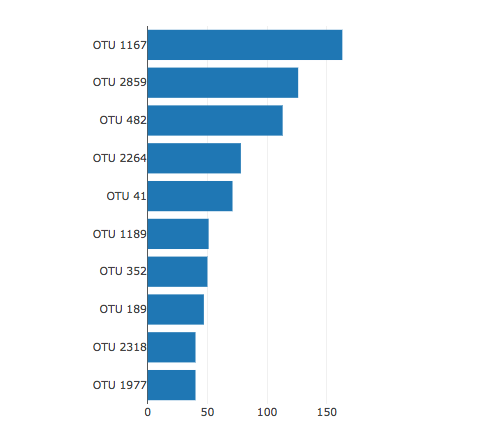
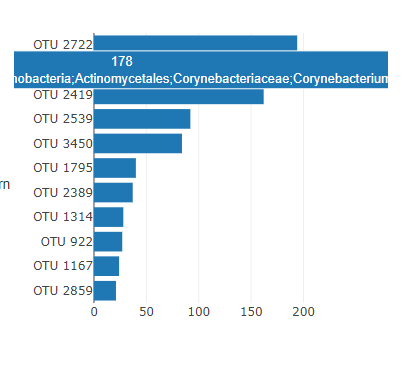
Completed First Version of Readme.md

diff --git a/static/js/app.js b/static/js/app.js
@@ -308,7 +308,7 @@ function init(data) {
 
 console.log(window.location.pathname);
 var allSampleData; 
-d3.json("http://localhost:8000/samples.json").then( function(data) {
+d3.json("http://localhost:8000/data/samples.json").then( function(data) {
     init(data);
     allSampleData = data;
 });

diff --git a/README.md b/README.md
@@ -8,67 +8,43 @@ The dataset reveals that a small handful of microbial species (also called opera
 
 ## Step 1: Plotly
 
-1. Use the D3 library to read in `samples.json`.
+1. The D3 Library was used to read in the [`samples.json`](./data/samples.json) file.
 
-2. Create a horizontal bar chart with a dropdown menu to display the top 10 OTUs found in that individual.
+2. The first chart is a horizontal bar chart to display the top 10 OTUs found for a particular individual.  The individual's identifier can be selected from a drop down list.
 
-* Use `sample_values` as the values for the bar chart.
+![dropdown_List](Images/dropdown1.png)   ![bar Chart](Images/hw01.png)
 
-* Use `otu_ids` as the labels for the bar chart.
+* The bar heights are provided by the `sample_values` array.
 
-* Use `otu_labels` as the hovertext for the chart.
+* The labels for the bar chart are provided by the `otu_ids` array.
 
-  ![bar Chart](Images/hw01.png)
+* The hovertext is provided by the `otu_labels` array.
 
-3. Create a bubble chart that displays each sample.
 
-* Use `otu_ids` for the x values.
 
-* Use `sample_values` for the y values.
+3. The second chart is a bubble chart that displays each sample, using:
 
-* Use `sample_values` for the marker size.
+* `otu_ids` for the x values (horizontal axis).
 
-* Use `otu_ids` for the marker colors.
+* `sample_values` for the y values (vertical axes).
 
-* Use `otu_labels` for the text values.
+* `sample_values` for the marker size (circle size).
+
+* `otu_ids` for the marker colors, the color are generated randomly.
+
+* `otu_labels` for the text values (hovertext).
 
 ![Bubble Chart](Images/bubble_chart.png)
 
-4. Display the sample metadata, i.e., an individual's demographic information.
 
-5. Display each key-value pair from the metadata JSON object somewhere on the page.
+4. The individual's demographic information is display on a panel (card element):
 
 ![hw](Images/hw03.png)
 
-6. Update all of the plots any time that a new sample is selected.
+6. All of the plots are updated any time that a new sample id is selected from the list of values:
 
-Additionally, you are welcome to create any layout that you would like for your dashboard. An example dashboard is shown below:
+![hw](Images/bb.gif)
 
-![hw](Images/hw02.png)
-
-## Advanced Challenge Assignment (Optional)
-
-The following task is advanced and therefore optional.
-
-* Adapt the Gauge Chart from <https://plot.ly/javascript/gauge-charts/> to plot the weekly washing frequency of the individual.
-
-* You will need to modify the example gauge code to account for values ranging from 0 through 9.
-
-* Update the chart whenever a new sample is selected.
-
-![Weekly Washing Frequency Gauge](Images/gauge.png)
-
-## Deployment
-
-* Deploy your app to a free static page hosting service, such as GitHub Pages. Submit the links to your deployment and your GitHub repo.
-
-* Ensure your repository has regular commits (i.e. 20+ commits) and a thorough README.md file
-
-## Hints
-
-* Use `console.log` inside of your JavaScript code to see what your data looks like at each step.
-
-* Refer to the [Plotly.js documentation](https://plot.ly/javascript/) when building the plots.
 
 ### About the Data
 
